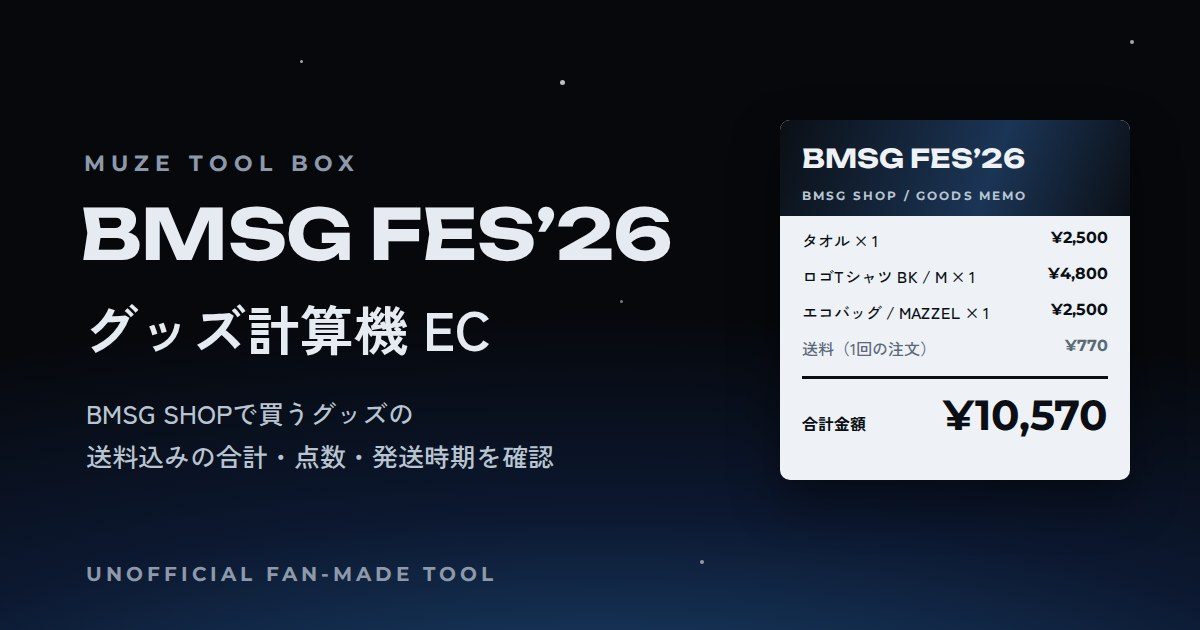
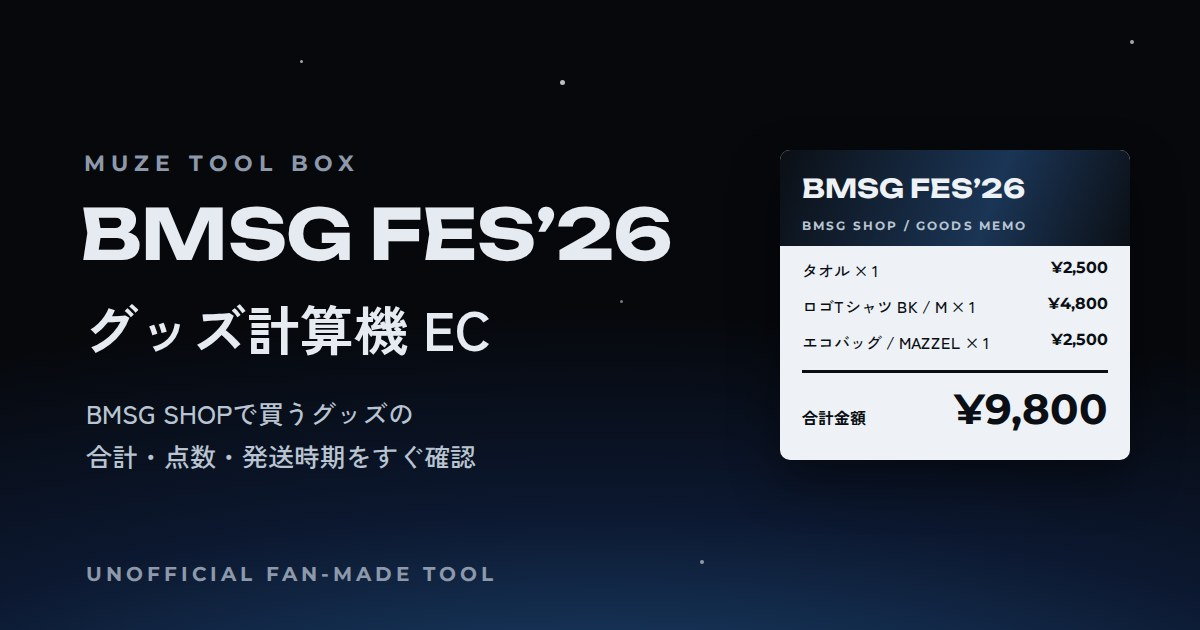
BMSG FES'26 EC 計算機：合計を送料別にし、「× 数量」が改行で切れないようにする
- 合計金額（画面・画像・テキスト）に送料を含めない。合計の下に「送料別」と表示
- 送料 ¥770 は案内の枠とテキストコピーで別に案内する
- 「EIKI × 1」の「× 1」だけが次の行に回らないよう、ノーブレークスペースでつなぐ
- OGP 画像も送料なしの合計に合わせて作り直し

Claude-Session: https://claude.ai/code/session_015S3Unax642LiMUBox78d7J

diff --git a/bmsg-fes26-ec/index.html b/bmsg-fes26-ec/index.html
@@ -262,7 +262,7 @@ footer p{margin:0 0 6px}
   <header class="intro">
     <div class="eyebrow">BMSG SHOP / 2026.10.23 20:00〜</div>
     <h1>BMSG FES’26<span class="jp">グッズ計算機 EC</span></h1>
-    <p class="lede">BMSG SHOP（オンライン）で買うFES’26グッズを入れると、送料込みの合計金額・点数・内訳をその場で計算します。入力は自動で保存されます。</p>
+    <p class="lede">BMSG SHOP（オンライン）で買うFES’26グッズを入れると、合計金額・点数・内訳をその場で計算します。送料（1回の注文ごとに¥770）は合計に含めず、別に表示します。入力は自動で保存されます。</p>
     <div class="links">
       <a class="pill-link" href="https://bmsg.shop/collections/bmsg?filter.v.availability=1" target="_blank" rel="noopener noreferrer">BMSG SHOP ↗</a>
     </div>
@@ -286,7 +286,7 @@ footer p{margin:0 0 6px}
             <div class="rows" id="rows"></div>
             <div class="totals">
               <div class="tr"><span class="lb">合計点数</span><span class="cnt" id="tCount">0点</span></div>
-              <div class="tr"><span class="lb">合計金額<small class="lb-sub">送料込み</small></span><span class="yen" id="tYen">¥0</span></div>
+              <div class="tr"><span class="lb">合計金額<small class="lb-sub">送料別</small></span><span class="yen" id="tYen">¥0</span></div>
             </div>
             <div class="ship" id="ship" hidden></div>
             <div class="warn" id="warn" hidden></div>
@@ -415,8 +415,8 @@ function unit(g){return g.unit||'点'}
 function rows(){
   var out=[];
   G.forEach(function(g){
-    if(g.variants){ g.variants.forEach(function(v){var c=Q[g.id][v]; if(c>0) out.push({g:g,label:g.name+' / '+v+' × '+c,count:c,sub:g.price*c}) }); }
-    else if(Q[g.id]>0) out.push({g:g,label:g.name+' × '+Q[g.id]+(g.unit?g.unit:''),count:Q[g.id],sub:g.price*Q[g.id]});
+    if(g.variants){ g.variants.forEach(function(v){var c=Q[g.id][v]; if(c>0) out.push({g:g,label:g.name+' / '+v+'\u00a0×\u00a0'+c,count:c,sub:g.price*c}) }); }
+    else if(Q[g.id]>0) out.push({g:g,label:g.name+'\u00a0×\u00a0'+Q[g.id]+(g.unit?g.unit:''),count:Q[g.id],sub:g.price*Q[g.id]});
   });
   return out;
 }
@@ -427,10 +427,10 @@ function shipInfo(){
 }
 function shipHtml(si){
   if(!si.any) return '';
-  if(si.both) return '<b>送料 '+yen(SHIP_FEE)+'（1回の注文ごと）</b>受注販売の商品と一緒に注文すると、<b>全部まとめて12/15(火)以降の発送</b>になります。'+
+  if(si.both) return '<b>送料 '+yen(SHIP_FEE)+'（1回の注文ごと・合計とは別）</b>受注販売の商品と一緒に注文すると、<b>全部まとめて12/15(火)以降の発送</b>になります。'+
     '<span class="alt">通常販売の商品を先に受け取りたい場合は注文を分けると送料は'+yen(SHIP_FEE*2)+'（+'+yen(SHIP_FEE)+'）。</span>';
-  if(si.onlyOrder) return '<b>送料 '+yen(SHIP_FEE)+'（1回の注文ごと）</b>受注販売は10/29(木) 23:59まで。12/15(火)から順次発送です。';
-  return '<b>送料 '+yen(SHIP_FEE)+'（1回の注文ごと・全国一律）</b>';
+  if(si.onlyOrder) return '<b>送料 '+yen(SHIP_FEE)+'（1回の注文ごと・合計とは別）</b>受注販売は10/29(木) 23:59まで。12/15(火)から順次発送です。';
+  return '<b>送料 '+yen(SHIP_FEE)+'（1回の注文ごと・全国一律・合計とは別）</b>';
 }
 function warnings(){
   var w=[];
@@ -514,7 +514,6 @@ var lastTotal=null;
 function renderReceipt(){
   var rs=rows(), total=0, count=0, si=shipInfo();
   rs.forEach(function(r){total+=r.sub;count+=r.count});
-  total+=si.fee;
   var rowsEl=document.getElementById('rows');
   if(!rs.length){ rowsEl.innerHTML='<div class="r empty"><span>まだ商品が選ばれていません</span><span>—</span></div>'; }
   else{
@@ -580,10 +579,10 @@ function disarm(){clearTimeout(armTimer);resetBtn.classList.remove('armed');rese
 /* コピー */
 var copyBtn=document.getElementById('copyBtn');
 copyBtn.addEventListener('click',function(){
-  var rs=rows(), total=0, count=0, si=shipInfo(); rs.forEach(function(r){total+=r.sub;count+=r.count}); total+=si.fee;
+  var rs=rows(), total=0, count=0, si=shipInfo(); rs.forEach(function(r){total+=r.sub;count+=r.count});
   var text=['【BMSG FES’26 グッズ購入メモ（BMSG SHOP）】'].concat(rs.map(function(r){return '・'+r.label+' = '+yen(r.sub)}))
-    .concat(si.any?['・送料 = '+yen(si.fee)]:[])
-    .concat(['合計点数：'+count+'点','合計金額（送料込み）：'+yen(total)])
+    .concat(['合計点数：'+count+'点','合計金額（送料別）：'+yen(total)])
+    .concat(si.any?['※送料 '+yen(si.fee)+'（1回の注文ごと）が別にかかります']:[])
     .concat(si.both?['※受注販売と一緒に注文すると全部12/15以降の発送']:[]).join('\n');
   function ok(){copyBtn.textContent='コピーしました';setTimeout(function(){copyBtn.textContent='テキストでコピー'},1600)}
   function fallback(){
@@ -614,7 +613,6 @@ function drawReceipt(){
   var MONO='"IBM Plex Mono",ui-monospace,Menlo,monospace';
   var DISP='"Unbounded","Hiragino Sans",sans-serif';
   var rs=rows(), total=0, count=0, si=shipInfo(); rs.forEach(function(r){total+=r.sub;count+=r.count});
-  if(si.any){ total+=si.fee; rs=rs.concat([{g:{cat:'_fee'},label:'送料（1回の注文）',count:0,sub:si.fee}]); }
   var c=document.createElement('canvas'), ctx=c.getContext('2d');
   // 1回目:高さを測る / 2回目:描く
   function layout(draw){
@@ -639,7 +637,7 @@ function drawReceipt(){
       ctx.fillStyle='#0b0f15';ctx.fillRect(TX+IN,y,TW-IN*2,2);
       ctx.font='700 12px '+BODY;ctx.fillText('合計点数',TX+IN,y+30);
       ctx.font='600 16px '+MONO;ctx.textAlign='right';ctx.fillText(count+'点',TX+TW-IN,y+30);ctx.textAlign='left';
-      ctx.font='700 12px '+BODY;ctx.fillText('合計金額',TX+IN,y+70);
+      ctx.font='700 12px '+BODY;ctx.fillText('合計金額（送料別）',TX+IN,y+70);
       ctx.font='600 32px '+MONO;ctx.textAlign='right';ctx.fillText(yen(total),TX+TW-IN,y+72);ctx.textAlign='left';
       // バーコード
       var bx=TX+IN, by=y+92, seed=total+count*7+1;
